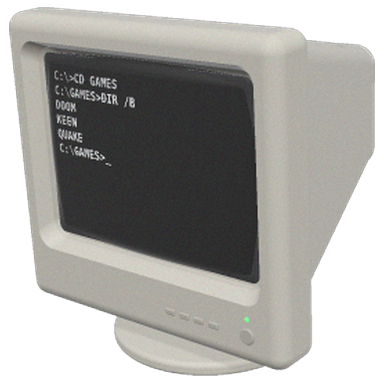
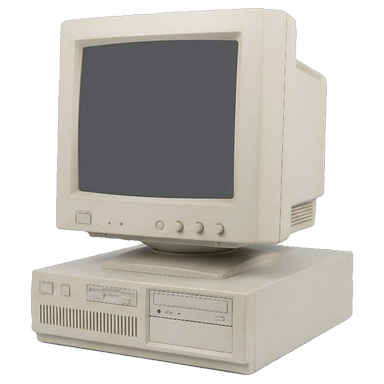
Ports: a 90s beige PC, cut from a photograph, and the same PC drawn flat
Claude-Session: https://claude.ai/code/session_01TGGsTE1DNkb6MQqq6tNzFj
(cherry picked from commit 6015d8282fe22089a10d5900d4dfa7c77717f4da)

diff --git a/tools/genportscard.py b/tools/genportscard.py
@@ -1,19 +1,16 @@
 #!/usr/bin/env python3
-"""Draw the Ports shelf's two cards: res/cards/classic/PORTS.png and
-res/cards/fancy/PORTS.png.
+"""Draw the Ports shelf's Plain Jane card, res/cards/classic/PORTS.png.
 
 Ports is not a console, so like Favorites and Muse there is no photograph to
 cut and the cards are generated - the classic one on tools/cardstyle.py, the drawn set's own
 stock, rule and tracked name.
 
-THE MARK is a retro PC monitor (ChaOS 2.7.4, for the arcade stick): ports
-come from the PC, and its screen is a command line. Classic is flat shapes,
-the case with its screen knocked out, a prompt and cursor on it, a drive slot
-in the chin, the neck and the foot, no strokes, as the deck has none. Fancy
-is the same monitor rendered (tools/raymarch.py) in matte beige plastic, and
-its screen is a real MS-DOS session (CD GAMES, DIR /B, three games that are
-DOS games and PortMaster ports alike), not filler. tools/genportsfancy.py,
-the arcade stick, is kept.
+THE MARK is the Fancy Pants card's PC (tools/genportsphoto.py, a mid-90s
+beige monitor on its desktop case) drawn flat from the front, so the two
+themes show the same machine: the monitor with a prompt and cursor on its
+screen, its button, lights and four knobs; the swivel and foot plate; the
+case with its buttons, floppy slot, vent grille and CD drive. Ports come from
+the PC. No strokes, as the deck has none. (An arcade stick until 2.7.4.)
 
 THE ACCENT, A0AEC0, a cool steel grey - the color of a PC case, which is
 where ports come from, and the one family left on a shelf of twelve colors
@@ -26,49 +23,71 @@ change the other.
 import os
 import sys
 
-import numpy as np
-from PIL import Image, ImageDraw, ImageFont
+
+from PIL import ImageDraw  # noqa: F401  (cardstyle draws with it)
 
 sys.path.insert(0, os.path.dirname(os.path.abspath(__file__)))
 import cardstyle  # noqa: E402
-import raymarch as rm  # noqa: E402
 
 ROOT = os.path.dirname(os.path.dirname(os.path.abspath(__file__)))
 CLASSIC = os.path.join(ROOT, "res", "cards", "classic", "PORTS.png")
 FANCY = os.path.join(ROOT, "res", "cards", "fancy", "PORTS.png")
-MONO = "/usr/share/fonts/truetype/dejavu/DejaVuSansMono-Bold.ttf"   # drawn into the picture only
 
 STEEL = (0xA0, 0xAE, 0xC0)
 SS = 4
 
 
 def mark(d, cx, cy, fill, cut, scale=1.0):
-    """A mid-90s monitor in flat shapes, about 290x320 at scale 1, ink centred
-    on (cx, cy): the bezel with its screen knocked out and a prompt and cursor
-    on it, a row of buttons and the power button knocked out of the chin, and
-    the tilt-swivel foot under it."""
+    """The Fancy Pants card's PC in flat shapes, from the front: about 300x326
+    at scale 1, ink centred on (cx, cy). The monitor, its screen knocked out
+    with a prompt and cursor on it, and in its chin the button, the two
+    lights and four knobs; its swivel and foot plate; and the desktop case
+    under it with its two buttons, the floppy slot, the vent grille and the
+    CD drive over a blank bay, all knocked out. No strokes, as the deck has
+    none."""
     k = SS * scale
-    bw, bh = 290 * k, 262 * k
-    x0, y0 = cx - bw / 2, cy - 160 * k
-    d.rounded_rectangle([x0, y0, x0 + bw, y0 + bh], radius=26 * k, fill=fill)
-    sx0, sy0, sx1, sy1 = x0 + 26 * k, y0 + 24 * k, x0 + bw - 26 * k, y0 + bh - 58 * k
-    d.rounded_rectangle([sx0, sy0, sx1, sy1], radius=22 * k, fill=cut)
-    px, py = sx0 + 32 * k, sy0 + 38 * k
-    t = 13 * k
-    d.polygon([(px, py), (px + 30 * k, py + 26 * k), (px, py + 52 * k),
-               (px, py + 52 * k - t * 1.4), (px + 30 * k - t * 1.1, py + 26 * k), (px, py + t * 1.4)], fill=fill)
-    d.rectangle([px + 48 * k, py + 38 * k, px + 92 * k, py + 52 * k], fill=fill)
-    # the chin: four small buttons, then the power button
-    by = y0 + bh - 30 * k
+    top = cy - 163 * k
+    # the monitor
+    mw, mh = 236 * k, 196 * k
+    mx0 = cx - mw / 2
+    d.rounded_rectangle([mx0, top, mx0 + mw, top + mh], radius=16 * k, fill=fill)
+    sx0, sy0, sx1, sy1 = mx0 + 22 * k, top + 20 * k, mx0 + mw - 22 * k, top + mh - 44 * k
+    d.rounded_rectangle([sx0, sy0, sx1, sy1], radius=12 * k, fill=cut)
+    px, py = sx0 + 24 * k, sy0 + 28 * k
+    t = 11 * k
+    d.polygon([(px, py), (px + 26 * k, py + 22 * k), (px, py + 44 * k),
+               (px, py + 44 * k - t * 1.4), (px + 26 * k - t * 1.1, py + 22 * k), (px, py + t * 1.4)], fill=fill)
+    d.rectangle([px + 40 * k, py + 32 * k, px + 78 * k, py + 44 * k], fill=fill)
+    cyl = top + mh - 22 * k
+    d.rounded_rectangle([mx0 + 20 * k, cyl - 8 * k, mx0 + 44 * k, cyl + 8 * k], radius=3 * k, fill=cut)
+    for dx in (60, 76):
+        r = 3 * k
+        d.ellipse([mx0 + dx * k - r, cyl - r, mx0 + dx * k + r, cyl + r], fill=cut)
     for n in range(4):
-        bx = x0 + bw - (150 - n * 24) * k
-        d.rounded_rectangle([bx - 8 * k, by - 5 * k, bx + 8 * k, by + 5 * k], radius=4 * k, fill=cut)
-    r = 11 * k
-    d.ellipse([x0 + bw - 46 * k - r, by - r, x0 + bw - 46 * k + r, by + r], fill=cut)
-    # the neck and the round tilt-swivel foot
-    ny = y0 + bh
-    d.rectangle([cx - 50 * k, ny - 2 * k, cx + 50 * k, ny + 26 * k], fill=fill)
-    d.ellipse([cx - 120 * k, ny + 18 * k, cx + 120 * k, ny + 58 * k], fill=fill)
+        r = 8 * k
+        kx = mx0 + mw - (98 - n * 24) * k
+        d.ellipse([kx - r, cyl - r, kx + r, cyl + r], fill=cut)
+    # the swivel and the foot plate
+    y = top + mh
+    d.rectangle([cx - 46 * k, y - 2 * k, cx + 46 * k, y + 12 * k], fill=fill)
+    d.rounded_rectangle([cx - 84 * k, y + 10 * k, cx + 84 * k, y + 24 * k], radius=5 * k, fill=fill)
+    # the desktop case, a gap under the plate
+    cy0 = y + 30 * k
+    cw, ch = 300 * k, 96 * k
+    c0 = cx - cw / 2
+    d.rounded_rectangle([c0, cy0, c0 + cw, cy0 + ch], radius=8 * k, fill=fill)
+    # its two square buttons and the floppy slot
+    for bx in (16, 38):
+        d.rounded_rectangle([c0 + bx * k, cy0 + 16 * k, c0 + (bx + 15) * k, cy0 + 31 * k], radius=2 * k, fill=cut)
+    d.rounded_rectangle([c0 + 64 * k, cy0 + 18 * k, c0 + 136 * k, cy0 + 30 * k], radius=2 * k, fill=cut)
+    # the vent grille
+    for n in range(14):
+        vx = c0 + (16 + n * 9) * k
+        d.rectangle([vx, cy0 + 46 * k, vx + 4 * k, cy0 + 80 * k], fill=cut)
+    # the CD drive over a blank bay
+    d.rounded_rectangle([c0 + 160 * k, cy0 + 14 * k, c0 + 284 * k, cy0 + 44 * k], radius=2 * k, fill=cut)
+    d.rounded_rectangle([c0 + 160 * k, cy0 + 50 * k, c0 + 284 * k, cy0 + 82 * k], radius=2 * k, fill=cut)
+    d.rectangle([c0 + 170 * k, cy0 + 26 * k, c0 + 210 * k, cy0 + 30 * k], fill=fill)
 
 
 def classic():
@@ -78,117 +97,5 @@ def classic():
     print(CLASSIC, os.path.getsize(CLASSIC), "bytes")
 
 
-# ---- fancy ----------------------------------------------------------------
-#
-# A mid-90s 15" SVGA monitor, after the NEC MultiSync 3FGx (1993) and the
-# beige monitors like it on every desk then: a squarish bezel in warm light
-# grey, the tube's face (slightly curved, 4:3) in a bevelled opening, a deeper
-# chin with a row of small buttons and the power button with its green light
-# at the right, the long tapering back that held the tube's neck, vent slots
-# across it, and a round tilt-swivel foot. Its screen is VGA text mode, light
-# grey on black: a real MS-DOS session. No maker's name.
-#
-# Shot as a museum archive shoots hardware (Evan Amos's Vanamo Online Game
-# Museum): even studio light, sharp all over, neutral colour, no props.
-
-M = rm.rot(5, -40, 0)
-CASE = (205, 201, 189)       # 90s "putty": warm light grey
-SW, SH = 1.30, 0.975         # the tube's face, half sizes (4:3)
-SX, SY = 0.0, 0.18           # its middle
-FZ = 0.62                    # the bezel's front
-
-
-def screen_picture():
-    """A real MS-DOS session, not filler: into the games folder, a bare
-    listing (DIR /B, MS-DOS 5 on) of three games that are DOS games and
-    PortMaster ports alike, and the prompt waiting. In a monospace face drawn
-    small and blown up square, as a CRT's text mode is."""
-    n = 500                                   # drawn at a half, then x2
-    w, h = n, int(n * SH / SW)
-    im = Image.new("RGB", (w, h), (9, 10, 12))
-    d = ImageDraw.Draw(im)
-    f = ImageFont.truetype(MONO, 23)
-    g = (196, 198, 200)      # VGA text mode's light grey
-    lines = ["C:\\>CD GAMES", "C:\\GAMES>DIR /B", "DOOM", "KEEN", "QUAKE", "C:\\GAMES>_"]
-    for k, t in enumerate(lines):
-        d.text((38, 34 + k * 28), t, font=f, fill=g)
-    im = im.convert("L").point(lambda v: 255 if v > 90 else 0)   # hard pixels, no grey edges
-    im = Image.merge("RGB", [im.point(lambda v: 9 + v * (c - 9) // 255) for c in g])
-    im = im.resize((w * 2, h * 2), Image.NEAREST)
-    a = np.asarray(im, np.float64)
-    a[::4] *= 0.9                             # a colour tube's faint lines
-    hh, ww = a.shape[:2]
-    yy, xx = np.mgrid[0:hh, 0:ww]
-    rr = np.hypot((xx - ww / 2) / (ww / 2), (yy - hh / 2) / (hh / 2))
-    a *= (1.08 - 0.35 * rr ** 2)[..., None]
-    return Image.fromarray(np.clip(a, 0, 255).astype(np.uint8))
-
-
-SCREEN = rm.Tex(screen_picture(), SX - SW, SX + SW, SY - SH, SY + SH, base=(9, 10, 12))
-
-
-def frame(p):
-    return rm.local(p, (0, 0, 0), M)
-
-
-def tapered_hole(q, c, front, back, z_front, z_back, r):
-    """A rounded box whose sides slope: half sizes `front` at z_front, `back`
-    at z_back - the funnel a moulded bezel steps down through"""
-    qb = q - c
-    t = np.clip((z_front - q[..., 2]) / (z_front - z_back), 0, 1)
-    hb = np.stack([front[0] + (back[0] - front[0]) * t - r, front[1] + (back[1] - front[1]) * t - r,
-                   np.full_like(t, (z_front - z_back) / 2)], -1)
-    qb = np.stack([qb[..., 0], qb[..., 1], q[..., 2] - (z_front + z_back) / 2], -1)
-    db = np.abs(qb) - hb
-    db[..., 2] = np.abs(qb[..., 2]) - (z_front - z_back) / 2
-    return np.linalg.norm(np.maximum(db, 0), axis=-1) + np.minimum(db.max(-1), 0) - r
-
-
-MATS = [rm.Mat(CASE, gloss=0.28, spec=0.35),                                 # 0 case
-        rm.Mat(lambda p: SCREEN(frame(p)), gloss=0.9, spec=0.55, emit=0.9),  # 1 the tube's glass
-        rm.Mat((52, 53, 55), gloss=0.25, spec=0.3),                          # 2 the dark border in the bezel
-        rm.Mat((184, 180, 168), gloss=0.35, spec=0.4),                       # 3 buttons, a shade darker
-        rm.Mat((90, 230, 110), gloss=0.5, spec=0.4, emit=1.0)]               # 4 power light
-
-
-def scene(p):
-    q = frame(p)
-    # the bezel: a squarish slab, its edges softly rounded
-    bez = rm.box(q - [0, 0, FZ - 0.28], (1.62, 1.5, 0.28), 0.16)
-    # the back: the tube's housing, narrowing hard toward the neck
-    back = tapered_hole(q, np.array([0, 0.12, 0]), (1.5, 1.3), (0.75, 0.68), FZ - 0.4, -2.4, 0.22)
-    case = rm.smin(bez, back, 0.08)
-    # vent slots across the back's top
-    sx = ((q[..., 0] + 4) % 0.16) - 0.08
-    vents = np.maximum(np.abs(sx) - 0.025, np.abs(q[..., 2] + 1.3) - 0.55)
-    vents = np.maximum(vents, np.abs(q[..., 0]) - 0.9)
-    top = 0.12 + 1.3 + (0.68 - 1.3) * np.clip((FZ - 0.4 - q[..., 2]) / (FZ - 0.4 + 2.4), 0, 1)
-    vents = np.maximum(vents, np.abs(q[..., 1] - top) - 0.04)
-    case = np.maximum(case, -vents)
-    # the screen's opening, its walls bevelled in, a dark border, the glass
-    hole = tapered_hole(q, np.array([SX, SY, 0]), (SW + 0.12, SH + 0.12), (SW + 0.02, SH + 0.02),
-                        FZ + 0.05, FZ - 0.16, 0.18)
-    case = np.maximum(case, -hole)
-    border = rm.box(q - [SX, SY, FZ - 0.18], (SW + 0.05, SH + 0.05, 0.02), 0.17)
-    bulge = 0.07 * (1 - (((q[..., 0] - SX) / SW) ** 2 + ((q[..., 1] - SY) / SH) ** 2) * 0.5)
-    tube = rm.box(q - [SX, SY, FZ - 0.2], (SW, SH, 0.03), 0.16) - bulge
-    # the chin: four small buttons and the power button, its light above it
-    by = -1.18
-    btn = np.full(q.shape[:-1], 1e9)
-    for n in range(4):
-        btn = np.minimum(btn, rm.box(q - [0.35 + n * 0.17, by, FZ], (0.055, 0.03, 0.02), 0.015))
-    btn = np.minimum(btn, rm.cyl(q - [1.24, by, FZ], 0.075, 0.025, 0.012, axis=2))
-    led = rm.sphere(q - [1.24, by + 0.16, FZ - 0.005], 0.025)
-    # the neck and the round tilt-swivel foot
-    neck = rm.box(q - [0, -1.62, -0.4], (0.45, 0.16, 0.45), 0.08)
-    foot = rm.cyl(q - [0, -1.82, -0.4], 1.02, 0.07, 0.05, axis=1)
-    case = np.minimum(case, np.minimum(neck, foot))
-    d = np.stack([case, tube, border, btn, led], -1)
-    return d.min(-1), d.argmin(-1)
-
-
-scene.mats = MATS
-
 if __name__ == "__main__":
     classic()
-    rm.render(scene, FANCY, cam=(0.0, 2.4, 9.6), look=(0, -0.25, -0.4), fov=29)

diff --git a/tools/genportsphoto.py b/tools/genportsphoto.py
@@ -1,0 +1,57 @@
+#!/usr/bin/env python3
+"""Cut res/cards/fancy/PORTS.png, Ports' card in Fancy Pants, from
+res/cards/fancy/source/ports-pc.png: a mid-90s beige PC, its monitor on its
+desktop case, on a white studio backdrop (res/cards/fancy/SOURCE.md).
+
+The object is told from the backdrop by colour, not brightness: the beige
+plastic is warm (red well over blue) and the screen and vents are dark, while
+the backdrop and its soft floor shadow are neutral. Its outline is smoothed,
+pulled in a pixel so no backdrop rims it, and feathered a pixel. The plastic
+is cleaned of the picture's speckle (a 3x3 median), a fifth of the yellow
+cast comes out of the beige, as a white-balanced studio shot shows it, and
+it's sharpened lightly, to sit with Evan Amos's photographs. Then trimmed,
+longest side 96% of 384, centred, as the set is.
+
+    tools/genportsphoto.py
+"""
+import os
+
+import numpy as np
+from PIL import Image, ImageFilter
+from scipy import ndimage
+
+ROOT = os.path.dirname(os.path.dirname(os.path.abspath(__file__)))
+SRC = os.path.join(ROOT, "res", "cards", "fancy", "source", "ports-pc.png")
+OUT = os.path.join(ROOT, "res", "cards", "fancy", "PORTS.png")
+
+
+def main():
+    src = Image.open(SRC).convert("RGB")
+    a = np.asarray(src).astype(np.float64)
+    obj = ((a[..., 0] - a[..., 2]) > 11) | (a.mean(-1) < 190)
+    obj = ndimage.binary_opening(obj, iterations=2)
+    lab, n = ndimage.label(obj)
+    obj = lab == 1 + np.argmax(ndimage.sum(obj, lab, range(1, n + 1)))
+    obj = ndimage.binary_fill_holes(ndimage.binary_closing(obj, iterations=3))
+    smooth = ndimage.binary_erosion(ndimage.gaussian_filter(obj.astype(float), 2.0) > 0.5, iterations=1)
+    alpha = ndimage.gaussian_filter(smooth.astype(float), 0.8)
+
+    c = np.asarray(src.filter(ImageFilter.MedianFilter(3))).astype(np.float64)
+    lum = c.mean(-1, keepdims=True)
+    c = lum + (c - lum) * 0.8
+    c[..., 2] *= 1.03
+    c[..., 0] *= 0.99
+    c = np.clip((c - 128) * 1.06 + 128 + 4, 0, 255)
+    out = Image.fromarray(c.astype(np.uint8)).filter(ImageFilter.UnsharpMask(radius=1.2, percent=55, threshold=2))
+    out.putalpha(Image.fromarray((alpha * 255).astype(np.uint8)))
+    out = out.crop(out.getchannel("A").getbbox())
+    k = 369.0 / max(out.size)
+    out = out.resize((round(out.width * k), round(out.height * k)), Image.LANCZOS)
+    card = Image.new("RGBA", (384, 384), (0, 0, 0, 0))
+    card.paste(out, ((384 - out.width) // 2, (384 - out.height) // 2), out)
+    card.save(OUT)
+    print(OUT, card.size, "ink", card.getchannel("A").getbbox())
+
+
+if __name__ == "__main__":
+    main()

diff --git a/res/cards/fancy/SOURCE.md b/res/cards/fancy/SOURCE.md
@@ -66,6 +66,9 @@ scaled as above, longest side 96% of 384.
 
 ## PORTS.png
 
-Not a console: Ports' card, a retro PC monitor rendered (`tools/genportscard.py`)
-from no images, in matte beige plastic, a real MS-DOS session on its screen. It
-replaced the rendered arcade stick (`tools/genportsfancy.py`, kept) in 2.7.4.
+Not a console: Ports' card, a mid-90s beige PC, its CRT monitor on its
+desktop case, supplied by SkyWalker541 on 2026-11-21 for this card
+(`source/ports-pc.png`, kept here). `tools/genportsphoto.py` cuts it from its
+white backdrop, cleans and white-balances it toward the set and frames it as
+above. It has no maker's name on it. It replaced a rendered arcade stick
+(`tools/genportsfancy.py`, kept).
